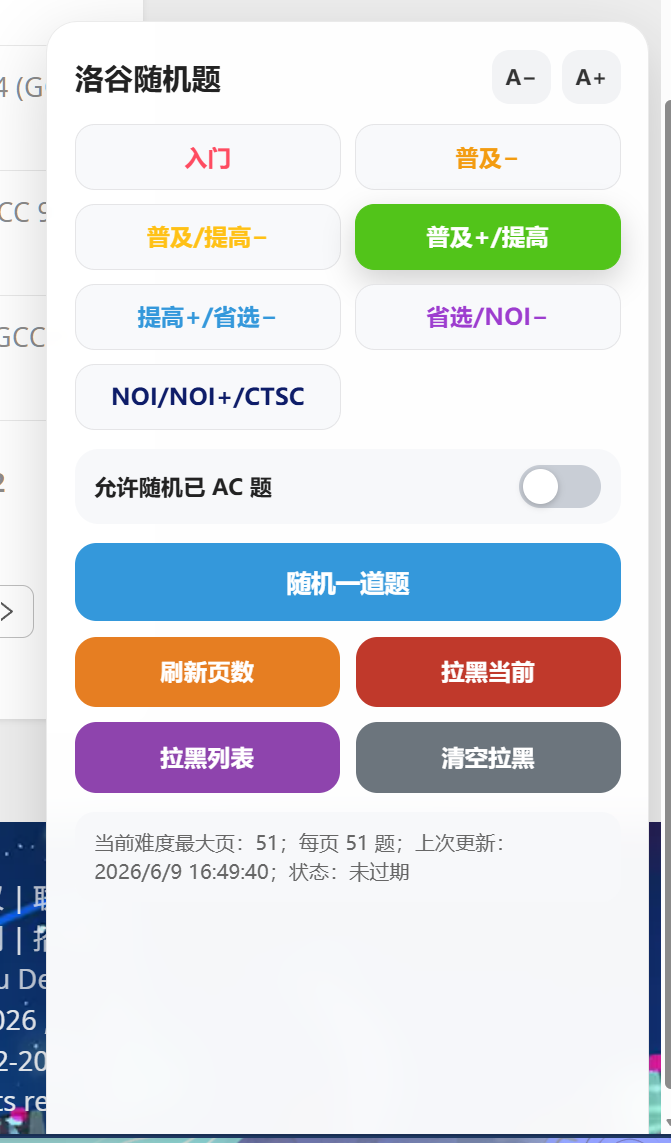
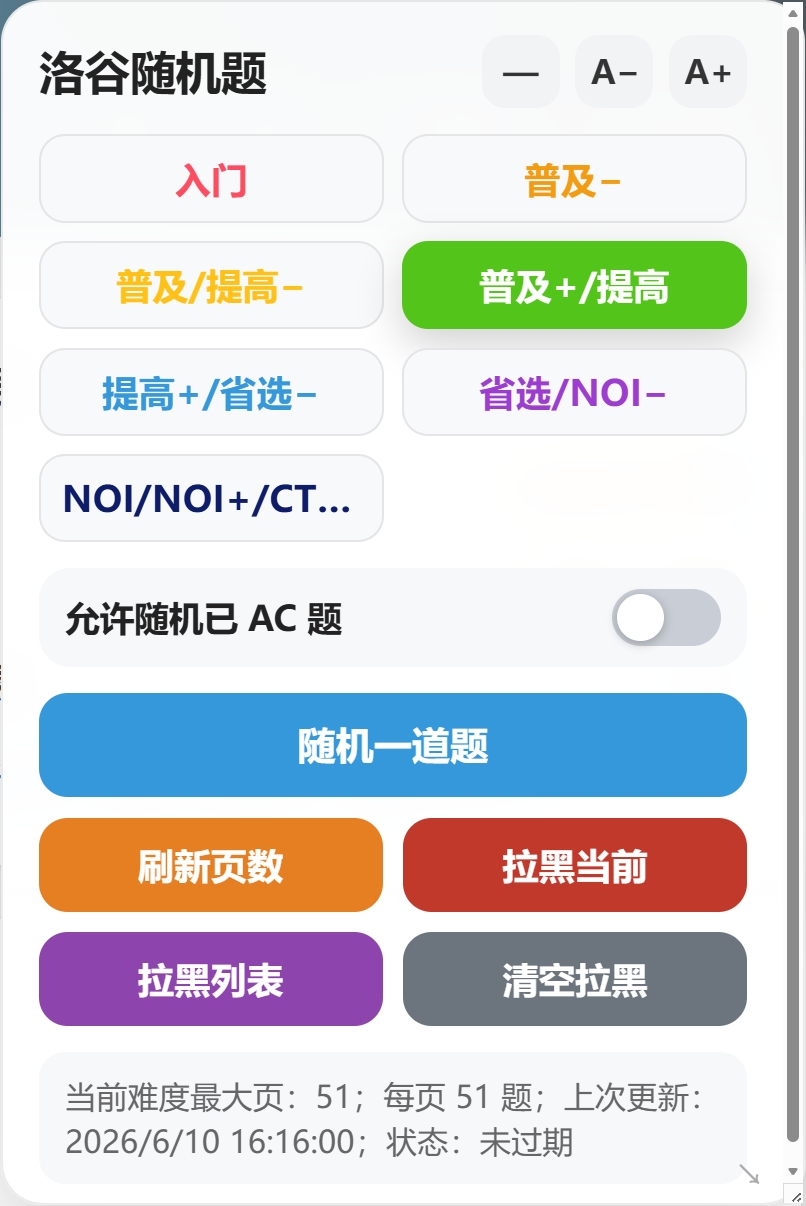
更新预览图

diff --git a/README.md b/README.md
@@ -55,4 +55,10 @@ https://www.luogu.com.cn/*
 
 ### 脚本预览
 
-![](https://github.com/thedyingkai/tampermonkey/blob/main/image/1.png) ![](https://github.com/thedyingkai/tampermonkey/blob/main/image/2.png)
+![](https://github.com/thedyingkai/tampermonkey/blob/main/image/0.png)
+
+![](https://github.com/thedyingkai/tampermonkey/blob/main/image/1.png)
+
+![](https://github.com/thedyingkai/tampermonkey/blob/main/image/2.png)
+
+![](https://github.com/thedyingkai/tampermonkey/blob/main/image/3.png)